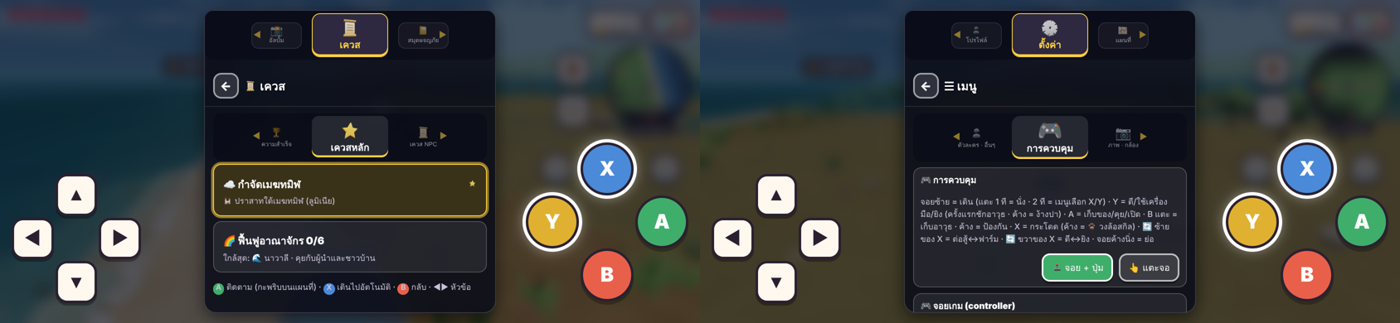
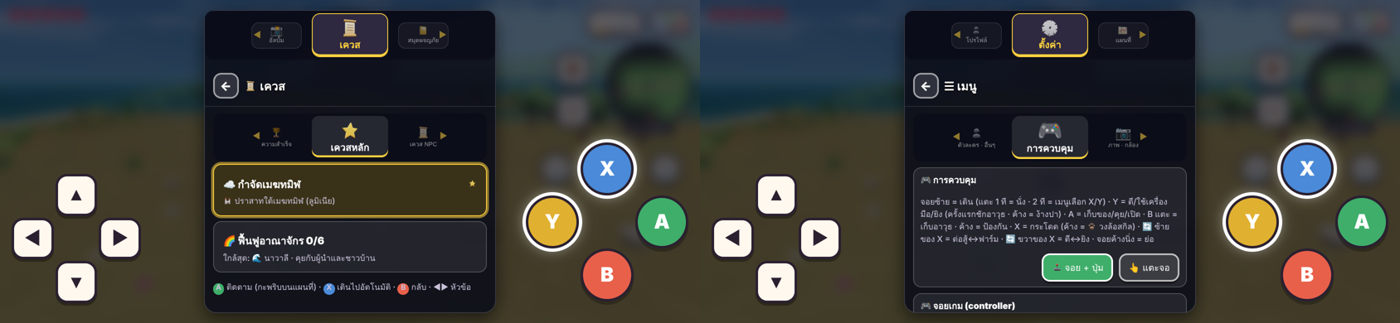
feat(kealee): v3.75 one window height in both orientations · portrait window at eye level above the pad
Claude-Session: https://claude.ai/code/session_01GPWeNez232vT9ersFNk7wt

diff --git a/newgame/src/main.js b/newgame/src/main.js
@@ -1575,7 +1575,8 @@ let atlasK = 'map';
 async function openAtlas(k) { closeSheets(); atlasK = ATLAS.some(t => t[0] === k) ? k : 'map'; const T = ATLAS.find(t => t[0] === atlasK); await T[3](); const ov = topOv(); if (!ov) return; ov.dataset.atlas = atlasK;
   const bar = document.createElement('div'); bar.className = 'atlasT'; bar.innerHTML = carBar(ATLAS, atlasK, 'data-at');
   bar.querySelectorAll('[data-at]').forEach(x => x.onclick = () => { if (x.dataset.at !== atlasK) { sfx('tap'); openAtlas(x.dataset.at) } }); (ov.querySelector('.sh') || ov.firstElementChild || ov).prepend(bar) }
-function winLine() { const port = innerHeight >= innerWidth, h = port ? Math.max(360, innerHeight - D.WIN.padRoom) : innerHeight - D.WIN.landGap; document.documentElement.style.setProperty('--winH', h + 'px') }
+function winLine() { const port = innerHeight >= innerWidth, avail = port ? Math.max(360, innerHeight - D.WIN.padRoom) : innerHeight, H = Math.min(D.WIN.h, avail - 2 * D.WIN.landGap), top = Math.max(D.WIN.landGap, Math.round((avail - H) / 2)), st = document.documentElement.style;   /* v3.75 one window height in both orientations · portrait: in the middle of the space above the pad (eye level) */
+  st.setProperty('--winTop', top + 'px'); st.setProperty('--winH', (top + H) + 'px'); st.setProperty('--bagH', (port ? avail : innerHeight) + 'px') }
 winLine(); addEventListener('resize', () => setTimeout(winLine, 100));
 function atlasStep(d) { const i = ATLAS.findIndex(t => t[0] === atlasK); sfx('tap'); openAtlas(ATLAS[(i + d + ATLAS.length) % ATLAS.length][0]) }
 $('mBag').onclick = () => { if (CUT) return; sfx('tap'); if (document.querySelector('.ov')) closeSheets(); openBag() };

diff --git a/newgame/src/data.js b/newgame/src/data.js
@@ -221,7 +221,7 @@ export const GOLEMS = {
   navalee:   { kind: 'golemAqua', dx: -40, dz: 55, name: '🔷 โกเลมอความารีน', col: '#5ac0d0', core: '#c8ffff', mat: 'aquamarine', elem: 'wave' },
   frosthelm: { kind: 'golemCrystal', dx: 50, dz: 45, name: '🔹 โกเลมคริสตัล', col: '#a8d8f0', core: '#ffffff', mat: 'crystal', elem: 'freeze' },
   deadgar:   { kind: 'golemBone', dx: -45, dz: -50, name: '🦴 โกเลมกระดูก', col: '#e8e0d0', core: '#c080ff', mat: 'bone', elem: 'summon' } };
-export const WIN = { padRoom: 320, landGap: 12 };   // v3.75 portrait: windows stop this many px above the screen's bottom (the pad lives there) · landscape: a small gap so the whole frame shows
+export const WIN = { padRoom: 320, landGap: 12, h: 366 };   // h = every window's height (px) in both orientations   // v3.75 portrait: windows stop this many px above the screen's bottom (the pad lives there) · landscape: a small gap so the whole frame shows
 export const PINS = { max: 100, reach: 22, curSpeed: 240, beamH: 160,   // v3.74 📍 map pins: how many in all · A finds a point this close (screen px) · the cursor's speed (screen px/s) · beam height (m)
   icons: [['⚔', 'ดาบ'], ['🛡', 'โล่'], ['🏹', 'ธนู'], ['🪵', 'วัตถุดิบ'], ['🍲', 'อาหาร'], ['💀', 'มอนสเตอร์'], ['📦', 'หีบ'], ['⛏', 'แร่'], ['⭐', 'ชื่นชอบ']],
   beam: ['#ff5a5a', '#ffd23f', '#5adc7a', '#5ab4ff', '#d77aff'] };   // 🔆 five beacon colours (one each)

diff --git a/newgame/index.html b/newgame/index.html
@@ -464,8 +464,8 @@ body.pad:not(.gamepad):has(.ov[data-atlas]) #bA,body.pad:not(.gamepad):has(.ov[d
 .ov:not(.mapfs) .advst div{background:#ffffff14;border-color:#ffffff33}.ov:not(.mapfs) .advst span{color:#c9c1d9}
 /* v3.75 windows stop above the pad (portrait) · confirm boxes in the middle of the window space · every menu's top row = the bag's carousel */
 .ov:not(.mapfs){align-items:flex-start}
-.ov:not(.mapfs):not(.dlg) .sh{height:calc(var(--winH,100vh) / .82)!important;max-height:none!important;margin:0 auto!important;border-radius:0 0 18px 18px}
-.ov.dlg{bottom:auto;height:var(--winH,100vh);align-items:center}.ov.dlg .sh{height:auto!important;max-height:calc(var(--winH,100vh) / .82 - 20px)!important;margin:0 auto!important;border-radius:18px;border:3px solid #ffffff33}
+.ov:not(.mapfs):not(.dlg) .sh{height:calc(var(--bagH,100vh) / .82)!important;max-height:none!important;margin:0 auto!important;border-radius:0 0 18px 18px}
+.ov.dlg{bottom:auto;top:var(--winTop,0px);height:calc(var(--winH,100vh) - var(--winTop,0px));align-items:center}.ov.dlg .sh{height:auto!important;max-height:calc(var(--winH,100vh) / .82 - 20px)!important;margin:0 auto!important;border-radius:18px;border:3px solid #ffffff33}
 body.pad:not(.gamepad) .ov:not(.mapfs) .shb{padding-bottom:14px!important}
 .atlasT{display:block!important;padding:0!important;background:none!important;overflow:visible!important}.atlasT .invtabs.car,.qsubc{background:#0a0c18ee!important;border-radius:12px;margin:0 0 6px}.ov.mapfs .atlasT .invtabs.car{background:#0a0c18e8!important}
 .qsubc button{font-size:22px}

diff --git a/newgame/docs/WORKLOG.md b/newgame/docs/WORKLOG.md
@@ -42,6 +42,7 @@
 - รอบ 2 (ผู้ออกแบบขอ: รายละเอียดไม่เกินเส้นแดงเหนือปุ่ม · กล่องยืนยันอยู่กลางกรอบเนื้อหา · แถบไอคอนบนทุกเมนูแบบกระเป๋า): `winLine` → `--winH` (แนวตั้ง = สูงจอ − `D.WIN.padRoom` 320 · แนวนอน = เต็มจอ) · หน้าต่างชิดบนและจบที่เส้น · `.ov.dlg` อยู่กลางพื้นที่ `--winH` · `carBar` แถบวงล้อ ◀ อันนี้ ▶ แบบกระเป๋า ใช้กับแถบ atlas และหัวข้อย่อยเควส · ภาพ `docs/art/safe-line-portrait.png` `safe-line-landscape.png`
 - รอบ 3: ทุกหน้าต่างเบลอฉากเกมด้านหลังแบบกระเป๋า (`backdrop-filter: blur(7px)` · ยกเว้นแผนที่เต็มจอและกล่องยืนยัน) · ภาพ `docs/art/blur-portrait.png` `blur-landscape.png`
 - รอบ 4: แนวนอนหน้าต่างจบก่อนขอบจอ 12px (`D.WIN.landGap`) + ขอบบาง/เงา → เห็นกรอบครบทั้งใบ · ขอบบนเว้น 12px (`--winTop`) + มุมโค้งทั้ง 4 มุม ทั้งแนวตั้งและแนวนอน · ภาพ `docs/art/frame-landscape.png` `frame-portrait.png`
+- รอบ 5: ทุกหน้าต่างสูงเท่ากัน 366px ทั้งสองแนว (`D.WIN.h`) · แนวตั้งวางกลางพื้นที่เหนือปุ่ม (ระดับสายตา ไม่บังปุ่ม) · กล่องยืนยันอยู่กลางหน้าต่าง · กระเป๋าคงความสูงเดิม (`--bagH`)
 - ทดสอบ: bag · atlas · menus · picks · hands · starter · hud · fight · wear · carry · track · talk · howto · map · book ผ่าน · spirit ล้มแบบเดียวกับบนเว็บ (สกิลฮีลของน้อง · ของเดิม)
 - ขึ้นเว็บ: ⏳ รออนุญาต
 
